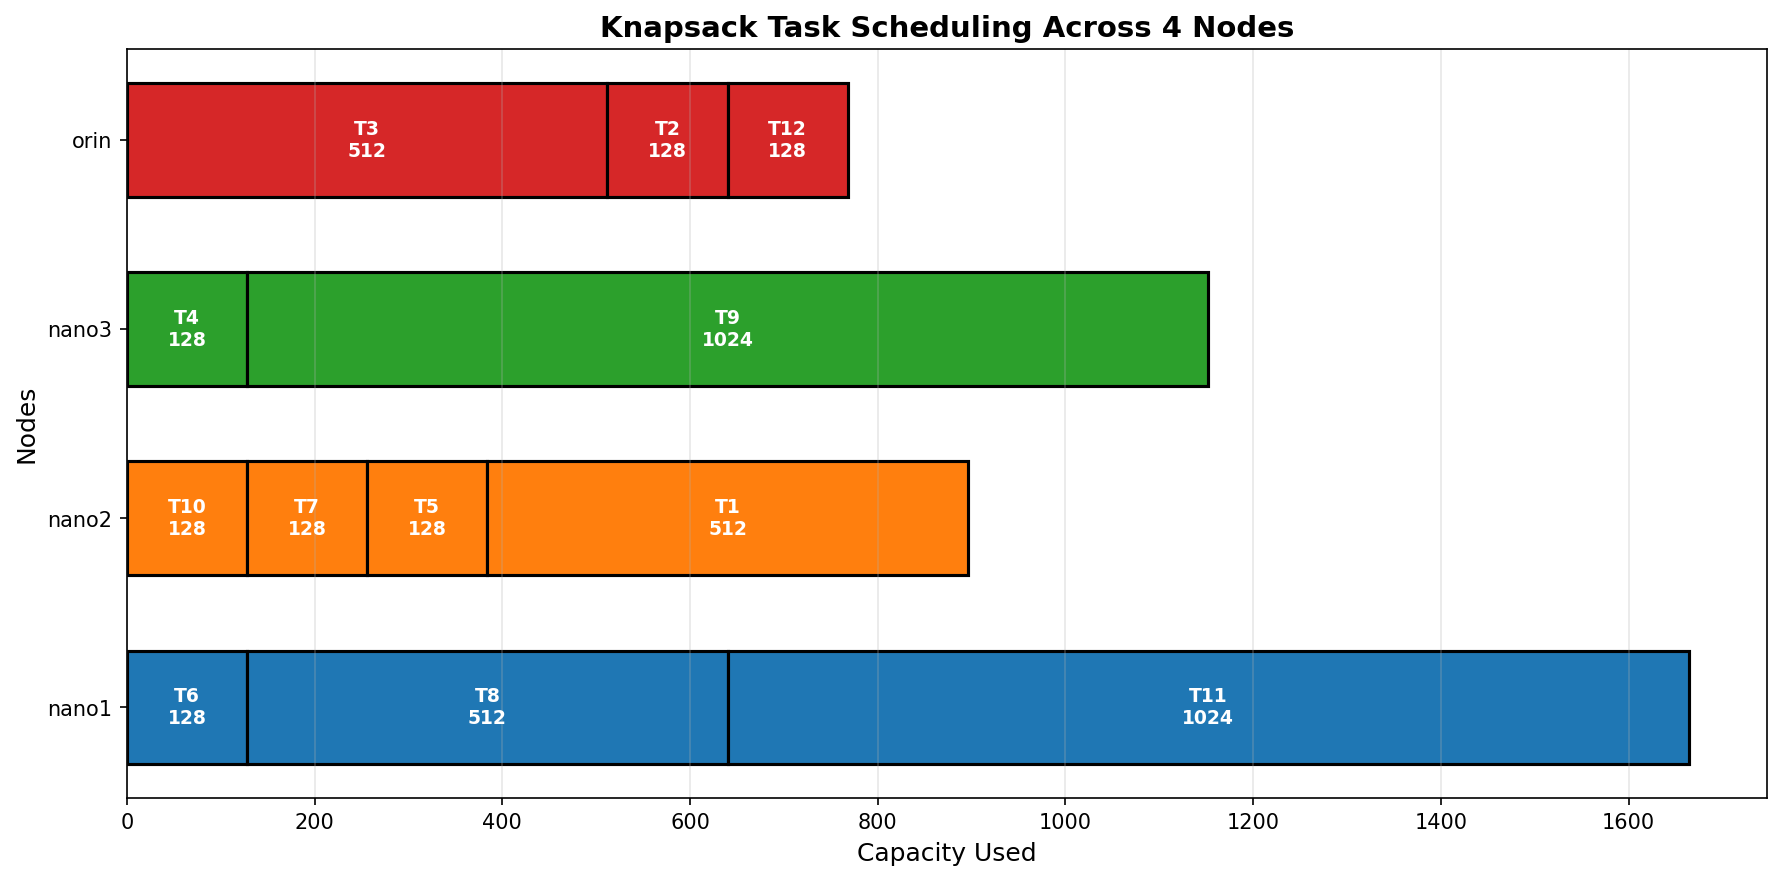
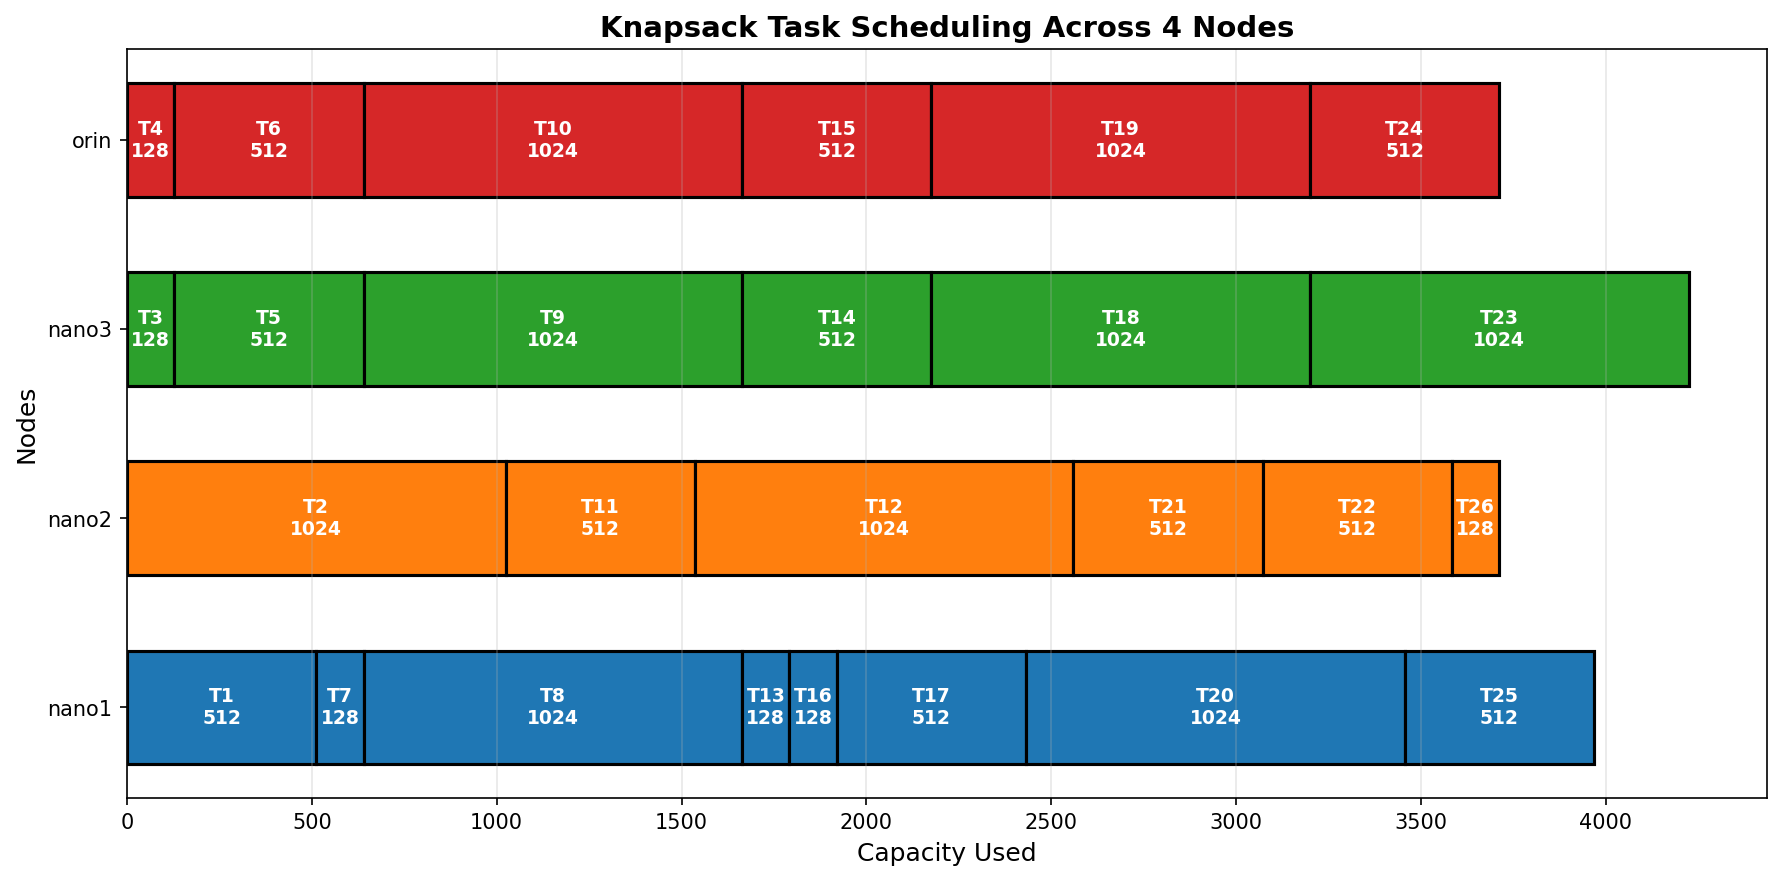
removed napsack + cleanup

diff --git a/napsack.py b/napsack.py
@@ -3,11 +3,10 @@ import matplotlib.pyplot as plt
 from datetime import datetime, timedelta
 import os
 
-# Generate tasks with random costs (128, 512, or 1024) and timestamp values
-random.seed()  # Use current time as seed for true randomness
+random.seed()
 base_time = datetime.now()
 
-num_tasks = random.randint(8, 15)  # Random number of tasks between 8 and 15
+num_tasks = random.randint(20, 40)
 tasks = []
 for i in range(1, num_tasks + 1):
     task_id = f"T{i}"
@@ -15,12 +14,17 @@ for i in range(1, num_tasks + 1):
     value = (base_time + timedelta(seconds=random.randint(1, 100))).timestamp()  # random timestamp as value
     tasks.append((task_id, cost, value))
 
-# Each node has a max capacity (e.g., available compute units)
 nodes = {
-    "nano1": 2000,
-    "nano2": 2000,
-    "nano3": 2000,
-    "orin": 2000
+    "nano1": {"speed": 25, "uptime": 300},
+    "nano2": {"speed": 25, "uptime": 300},
+    "nano3": {"speed": 25, "uptime": 300},
+    "orin": {"speed":  25, "uptime": 300}
+}
+
+# Calculate effective capacity for each node
+node_capacities = {
+    node: info["speed"] * info["uptime"]
+    for node, info in nodes.items()
 }
 
 # Simulate historical runtime tracking (this would come from your database)
@@ -32,82 +36,89 @@ node_historical_runtime = {
     "orin": 0
 }
 
-def knapsack(tasks, capacity):
-    n = len(tasks)
-    dp = [[0] * (capacity + 1) for _ in range(n + 1)]
-
-    for i in range(1, n + 1):
-        cost = tasks[i-1][1]
-        value = tasks[i-1][2]
-        for w in range(1, capacity + 1):
-            if cost <= w:
-                dp[i][w] = max(value + dp[i-1][w-cost], dp[i-1][w])
-            else:
-                dp[i][w] = dp[i-1][w]
-
-    # backtrack to get chosen tasks
-    res = []
-    w = capacity
-    for i in range(n, 0, -1):
-        if dp[i][w] != dp[i-1][w]:
-            res.append(tasks[i-1])
-            w -= tasks[i-1][1]
-    return res
-
-# Round-robin scheduling with fairness
-# Sort tasks by value (descending) to prioritize high-value tasks
-sorted_tasks = sorted(tasks, key=lambda t: t[2], reverse=True)
+# Capacity-proportional fair scheduling algorithm
+# Goal: Maintain equal utilization percentage across all nodes
+# Strategy: Always assign next task to the node with LOWEST current utilization %
 
 schedule = {node: [] for node in nodes.keys()}
-node_usage = {node: 0 for node in nodes.keys()}  # Track current capacity usage
-node_list = list(nodes.keys())
+node_usage = {node: 0 for node in nodes.keys()}  # Track current capacity usage (tokens)
+remaining_tasks = tasks[:]
 
-unscheduled = []
+print(f"\nNode Capacities:")
+print(f"  nano1: {node_capacities['nano1']:,} tokens ({nodes['nano1']['speed']} tok/s × {nodes['nano1']['uptime']}s)")
+print(f"  nano2: {node_capacities['nano2']:,} tokens ({nodes['nano2']['speed']} tok/s × {nodes['nano2']['uptime']}s)")
+print(f"  nano3: {node_capacities['nano3']:,} tokens ({nodes['nano3']['speed']} tok/s × {nodes['nano3']['uptime']}s)")
+print(f"  orin:  {node_capacities['orin']:,} tokens ({nodes['orin']['speed']} tok/s × {nodes['orin']['uptime']}s)")
+print(f"  Total: {sum(node_capacities.values()):,} tokens\n")
 
-# Round-robin assignment with historical runtime consideration
-for task in sorted_tasks:
-    task_id, cost, value = task
+# Assign tasks one at a time to maintain balanced utilization
+while remaining_tasks:
+    # Sort nodes by current utilization percentage (ascending)
+    # Include historical runtime for long-term fairness
+    node_list = sorted(
+        nodes.keys(), 
+        key=lambda n: (node_usage[n] + node_historical_runtime[n]) / node_capacities[n]
+    )
+    
     assigned = False
     
-    # Try to assign to the node with the least TOTAL usage (current + historical)
-    # This promotes long-term fairness across scheduling rounds
-    # In production, node_historical_runtime would be fetched from database
-    sorted_nodes = sorted(node_list, key=lambda n: node_usage[n] + node_historical_runtime[n])
-    
-    for node in sorted_nodes:
-        if node_usage[node] + cost <= nodes[node]:
-            # Assign task to this node
-            schedule[node].append(task)
-            node_usage[node] += cost
-            assigned = True
+    # Try to assign to the node with lowest utilization
+    for node in node_list:
+        if not remaining_tasks:
             break
+        
+        # Calculate remaining capacity
+        remaining_capacity = node_capacities[node] - node_usage[node]
+        
+        if remaining_capacity <= 0:
+            continue  # Node is full
+        
+        # Find tasks that fit in remaining capacity
+        fitting_tasks = [t for t in remaining_tasks if t[1] <= remaining_capacity]
+        
+        if not fitting_tasks:
+            continue  # No tasks fit in this node
+        
+        # Simple greedy selection: pick the first task from fitting tasks
+        # (fitting_tasks are already from remaining_tasks, sorted by value)
+        best_task = fitting_tasks[0]
+        
+        schedule[node].append(best_task)
+        node_usage[node] += best_task[1]
+        remaining_tasks.remove(best_task)
+        assigned = True
+        break  # Re-evaluate which node has lowest utilization
     
     if not assigned:
-        unscheduled.append(task)
+        break  # No more tasks can be assigned
+
+unscheduled = remaining_tasks
 
 # Update historical runtime (in production, this would be written to database)
 for node in nodes.keys():
     node_historical_runtime[node] += node_usage[node]
 
 # Print results
-print("=" * 70)
-print("ROUND-ROBIN SCHEDULING RESULTS (WITH FAIRNESS)")
-print("=" * 70)
+
 for node in nodes.keys():
     tasks_in_node = schedule[node]
     total_cost = sum(t[1] for t in tasks_in_node)
     total_value = sum(t[2] for t in tasks_in_node)
-    utilization = (total_cost / nodes[node]) * 100
-    print(f"{node}: {[t[0] for t in tasks_in_node]}")
-    print(f"  ├─ Tasks: {len(tasks_in_node)}")
-    print(f"  ├─ Capacity: {total_cost}/{nodes[node]} ({utilization:.1f}%)")
+    node_info = nodes[node]
+    capacity = node_capacities[node]
+    utilization = (total_cost / capacity) * 100
+    # Calculate actual execution time
+    execution_time = total_cost / node_info["speed"] if node_info["speed"] > 0 else 0
+    
+    print(f"{node} (speed={node_info['speed']} tokens/sec, uptime={node_info['uptime']}s):")
+    print(f"  ├─ Tasks: {len(tasks_in_node)} → {[t[0] for t in tasks_in_node]}")
+    print(f"  ├─ Tokens: {total_cost}/{capacity} ({utilization:.1f}% capacity)")
+    print(f"  ├─ Execution Time: {execution_time:.1f}s / {node_info['uptime']}s available")
     print(f"  ├─ Total Value: {total_value:.2f}")
     print(f"  └─ Historical Runtime: {node_historical_runtime[node]} units")
     print()
 
 print(f"Unscheduled: {[t[0] for t in unscheduled]} ({len(unscheduled)} tasks)")
-print("=" * 70)
-print("\n💾 In production: Historical runtime would be persisted to database")
 
 # Visualization
 def visualize_schedule(schedule, nodes):
@@ -151,11 +162,9 @@ def visualize_schedule(schedule, nodes):
     
     plt.tight_layout()
     
-    # Create outputs directory if it doesn't exist
     os.makedirs("outputs", exist_ok=True)
     output_path = "outputs/knapsack_schedule.png"
     plt.savefig(output_path, dpi=150, bbox_inches='tight')
-    print(f"\n✅ Visualization saved to: {output_path}")
     plt.close()
 
 visualize_schedule(schedule, nodes)
